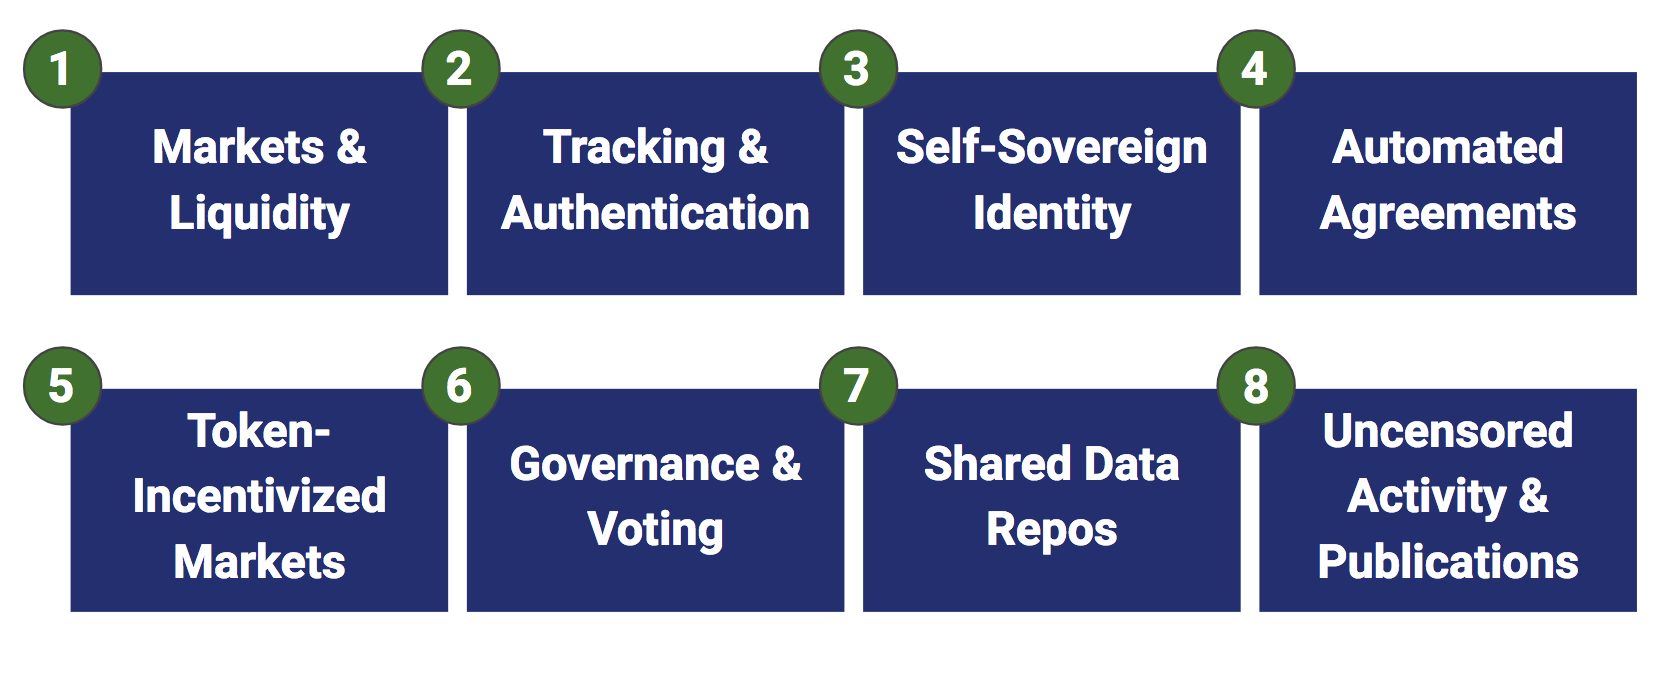
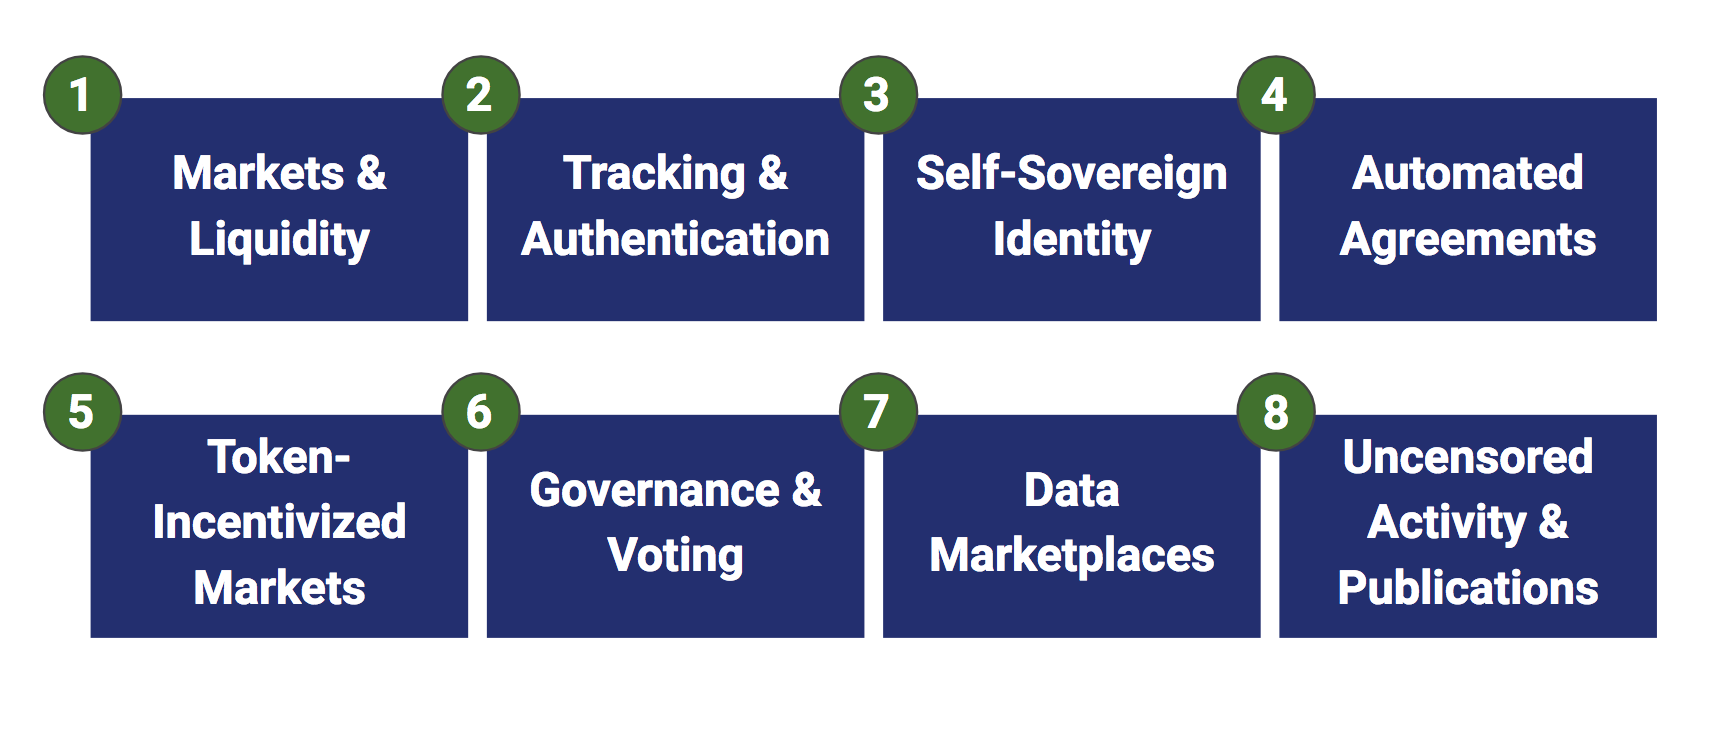
v0.9
almost there!

diff --git a/README.md b/README.md
@@ -1,96 +1,98 @@
 # dapp-ecosystem-map
-This repo provides a framework for thinking about the ways blockchain-based projects (primarily using Ethereum) are solving problems for end-users.
+Here is a framework for thinking about the ways blockchain- (and primarily Ethereum-) based projects are serving end-users.
 
 For an overview of Ethereum infrastructure layers / tech stack, please refer to the Ethereum Community Foundation's market map: https://github.com/EthereumCommunityFund/ethereum-ecosystem-map
 
 For an overview of EOS's tech stack, please refer to this picture of an empty PokeBall:
+
 ![EOS Market Map](https://github.com/ConsenSysLabs/dapp-ecosystem-map/blob/master/figures/pokeball.jpg)
 
-## Background
-For both blockchain newcomers and OGs, it can be difficult to understand how projects are using blockchain to solve problems for end users. This document provides a framework for thinking through the various use cases of blockchain and blockchain-based technologies.
+## Background and Disclaimer
+For both blockchain newcomers and OGs, it can be difficult to understand how projects are using blockchain to serve end users. This document provides a framework for thinking through the various use cases of blockchain and blockchain-based technologies.
 
-For each theme, this document captures examples of related projects. However, the inclusion of specific projects on this list does not denote an endorsement, nor does it signal the legitimacy of said project.
+For each theme, this document captures examples of relevant projects. However, the inclusion of specific projects on this list does not denote an endorsement, nor does it signal projects' legitimacy.
 
 ## Roadmap for this document
 0) Add more projects and project links
-1) Provide map of blockchain projects by industry.
-2) "Curate" ecosystem map to only include projects which meet some objective measure of legitimacy and usage.
-3) Make it easier for anyone to contribute to this list.
+1) Provide map of blockchain projects by industry
+2) "Curate" ecosystem map to only include projects which meet some objective measure of legitimacy and/or usage
+3) Open up and crowdsource this list
 
 ### How to Contribute?
-For now, create an issue to recommend a change, error, or addition to our database.
+For now, please create an issue to recommend a change, error, or addition to our database.
 
 ---
 
 ## Table of Contents
-0. [Taxonomy](#taxonomy)
+0. [Frameworks](#frameworks)
 1. [Markets and liquidity](#markets-and-liquidity)
 2. [Tracking and Authentication](#tracking-and-authentication)
 3. [Self-Sovereign Identity](#self-sovereign-identity)
 4. [Automated Agreements](#automated-agreements)
 5. [Token-Incentivized Markets](#token-incentivized-markets)
 6. [Governance and Voting](#governance-and-voting)
-7. [Shared Data Repos](#shared-data-repos)
+7. [Data Markets](#data-markets)
 8. [Uncensored Activity and Publications](#uncensored-activity-and-publications)
 
-## Taxonomy
-Here is a high-level framework to capture core themes for blockchain-based project development:
+## Frameworks
+### High-level thematic framework
 ![Blockchain Thematic Framework](https://github.com/ConsenSysLabs/dapp-ecosystem-map/blob/master/figures/use_case_fw.jpg)
 
-Here is a more specific categorization:
+### Lower-level framework (project categories)
 ![Blockchain Project Framework](https://github.com/ConsenSysLabs/dapp-ecosystem-map/blob/master/figures/use_case_fw_2.jpg)
 
 
 Notes:
-* Themes are neither mutually exclusive or collectively exhaustive.
-* Trustless exchange, decentralization, state mutation, and tokenization span each theme.
-* Projects can be industry-specific or generally applicable.
-* Examples focus on Ethereum-based projects.
+* Themes are neither mutually exclusive or collectively exhaustive
+* Trustless exchange, decentralization, state mutation, and tokenization span each theme
+* Projects can be industry-specific or generally applicable
+* Examples focus on Ethereum-based projects
 
 ### Markets and Liquidity
 
-Projects in this theme use the blockchain to represent value and support global exchange. They use the blockchain both as a payments / value exchange rail and to create digital scarcity.
-
-In success, such projects will unlock global resource sharing, fractional asset ownership, and frictionless cross-border exchange.
+* Projects which use the blockchain to represent value and support global exchange
+* Such projects use the blockchain both as a payments / value exchange rail and to create digital scarcity
+* In success, these projects will unlock P2P resource sharing and frictionless cross-border exchange.
 
 | Project      | Category     |
 |--------------|------------- |
-| GridPlus     | Fungible asset exchange - energy |
-| Pangea   | Nonfungible asset exchange - real estate |
 | Airswap     | Decentralized exchange (DEX)|
 | Kyber Network     | Decentralized exchange (DEX)|
 | Paradex     | Decentralized exchange (DEX) |
 | Radar Relay     | Decentralized exchange (DEX) |
 | Virtue Poker     | Gambling|
 | CryptoKitties     | Gaming|
-| Rarebits     | Nonfungible asset exchange|
-| Origin Protocol     | Nonfungible asset exchange|
 | Funfair     | Gambling |
 | SpankChain     | Entertainment (State channel payments) |
 | OmiseGo     | Ethereum-based payments (Plasma)|
+| GridPlus     | Fungible asset exchange - energy |
+| Pangea   | Nonfungible asset exchange - real estate |
 | Golem     | Decentralized compute resources |
 | IPFS     | Nonfungible asset exchange - storage|
+| Rarebits     | Nonfungible asset exchange - crypto-collectibles|
+| Origin Protocol     | Nonfungible asset exchange|
 
 
 ### Tracking and Authentication
 
-Projects which use blockchain as a single source of truth for asset ownership as well as provenance of physical and digital goods.
-
+* Blockchain as a single source of truth for asset ownership
+* Provenance of both physical goods and digital objects
 
 | Project      | Category     |
 |--------------|------------- |
-| Viant     | Asset track and trace / provenance |
-| CryptoKitties     | Gaming (proof of ownership)           |
+| Viant     | Asset track and trace / provenance - geared towards supply chain use cases|
 | ShipChain | Supply chain tracking |
-| Ujo Music | Music digital rights tracking |
+| CryptoKitties     | Gaming (proof of ownership)           |
 | R.A.R.E. Arts | Digital art ownership and verifiability|
+| Ujo Music | Music digital rights tracking |
 | POEX | Document verification|
 
 _Note: CryptoKitties also falls into Markets and Liquidity. That's how clustering works._
 
 ### Self-Sovereign Identity
 
-Projects which allow individuals to selectively share personal information as well as the data they produce. Under such constructs, individuals are able to monetize their data directly.
+* Allows individuals to selectively share personal information as well as the data they produce.
+* Individuals able to monetize their data directly.
 
 | Project      | Category     |
 |--------------|------------- |
@@ -103,7 +105,8 @@ Projects which allow individuals to selectively share personal information as we
 
 ### Automated Agreements
 
-Projects which allow for digitization and automation of business processes. Such processes often involve conditional payments and are multi-party transactions (thus benefiting from the trustless nature of blockchain applications.)
+* Digitization and automation of business processes
+* Often involve conditional payments and are multi-party transactions (thus benefiting from the trustless nature of blockchain applications)
 
 | Project      | Category     |
 |--------------|------------- |
@@ -114,22 +117,25 @@ Projects which allow for digitization and automation of business processes. Such
 
 ### Token-Incentivized Markets
 
-Projects which leverage token mechanics to solve coordination problems. Such projects typically incentivize work, create knowledge, and/or "gamify" human coordination.
+* Projects which leverage token mechanics to solve coordination problems
+* Such projects typically incentivize work, create knowledge, and/or "gamify" human coordination
 
 | Project      | Category     |
 |--------------|------------- |
-| MakerDAO     | Hiveminded research for stablecoin design |
+| MakerDAO    | Crowdsourced research for stablecoin design |
 | Gnosis     | Prediction market |
 | Augur     | Prediction market |
 | Kauri     | Knowledge network |
 | Gitcoin and Bounties Network  | Work bounties |
 | Frontier  | Token research platform |
 | Civil  | Incentivization of fair and accurate reporting |
-| TCR  | Token curated registry of non-fraudulent websites for advertising |
+| AdChain  | Token curated registry of non-fraudulent websites for advertising |
 
 ### Governance and Voting
 
-Fairly self-explanatory. Blockchain provides data permanence, immutability, and auditability. Such features are convenience for voting. Blockchain-based voting systems enable blockchain-based governance models, including Decentralized Autonomous Organizations (or DAOs.)
+* Blockchain provides data permanence, immutability, and auditability
+* Such features are convenience for voting
+* These voting systems enable blockchain-based governance models, including Decentralized Autonomous Organizations (or DAOs)
 
 | Project      | Category     |
 |--------------|------------- |
@@ -138,9 +144,11 @@ Fairly self-explanatory. Blockchain provides data permanence, immutability, and 
 | district0x     | Decentralized communities |
 | Voatz     | Blockchain-based voting platform |
 
-### Shared Data Repos
+### Data Markets
 
-As an open database, blockchain provides a well designed system for connecting disparate data pools. Coupled with micropayments, blockchain-based data markets can enable IoT device interoperability, machine-to-machine economies, and machine learning data markets.
+* Open, shared database for data capture (connects disparate data pools)
+* Data usage to leverage micropayments and data markets construct
+* Data markets can enable IoT device interoperability, machine-to-machine economies, and machine learning data markets
 
 | Project      | Category     |
 |--------------|------------- |
@@ -154,12 +162,12 @@ As an open database, blockchain provides a well designed system for connecting d
 
 ### Uncensored Activity and Publications
 
-Blockchains are designed to minimize censorability and tamperability. Thus, blockchains enable truly open networks for publication, communication, and value exchange.
+* Blockchains designed to minimize censorability and tamperability
+* Thus, blockchains enable truly open networks for publication, communication, and value exchange
 
 | Project      | Category     |
 |--------------|------------- |
 | Orchid Labs | Open internet platform|
 | Decentraland | Uncensorable digital world|
-| Leeroy | Decentralized social network|
 | Leeroy | Decentralized social network|
 | OpenBazaar | P2P commerce platform|
